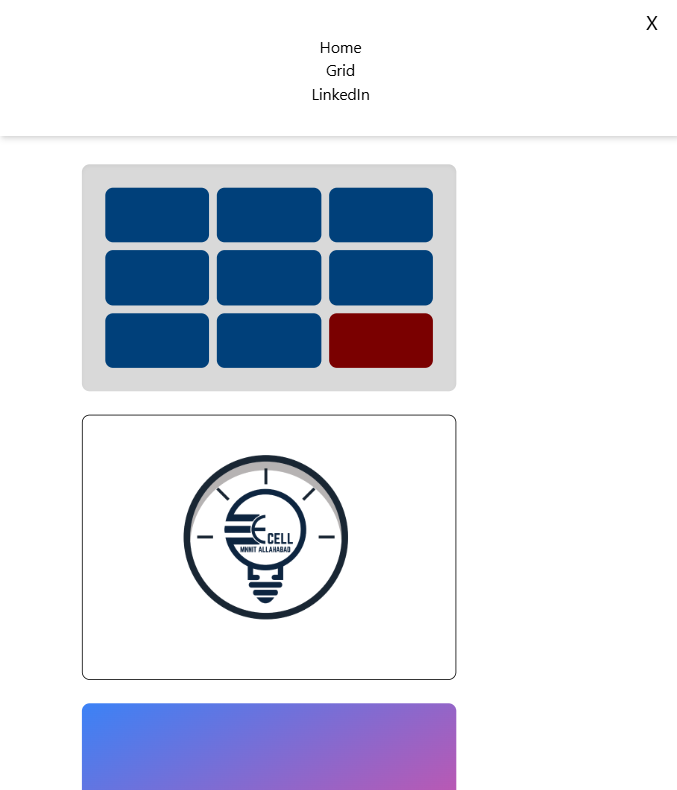
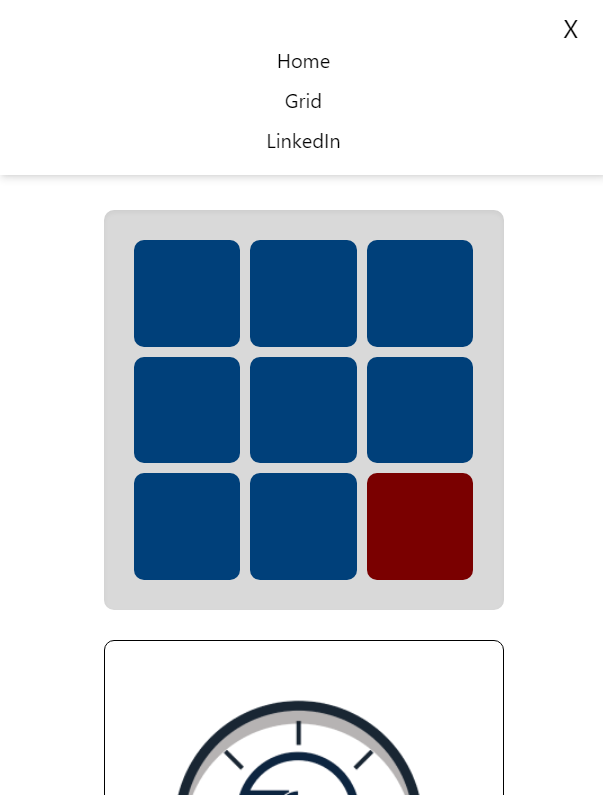
make responsive for tablet

diff --git a/frontend/src/pages/Home.jsx b/frontend/src/pages/Home.jsx
@@ -26,12 +26,12 @@ export default function Home() {
 
   return (
     <div>
-      <div className="flex flex-col lg:flex-row justify-center h-screen gap-6 p-6 pl-20 pr-20 text-xl">
-        <div className="h-[24rem] w-[24rem] bg-gradient-to-br from-blue-500 to-pink-500 rounded-lg order-3 lg:order-1"></div>
-        <div className="h-[24rem] w-[24rem] bg-white rounded-lg flex items-center justify-center border border-black order-2 lg:order-2">
+      <div className="flex flex-col items-center md:grid md:grid-cols-2 md:items-start lg:flex lg:flex-row justify-center h-full gap-6 p-6 pl-20 pr-20 text-xl">
+        <div className="h-80 w-80 bg-gradient-to-br from-blue-500 to-pink-500 order-3 rounded-lg lg:order-1 lg:w-80 lg-h-80 md:w-full md:order-1 md:col-span-2 "></div>
+        <div className="h-80 w-80 bg-white rounded-lg flex items-center justify-center border border-black order-2 lg:order-2 md:col-span-1 lg:w-80 lg:h-80  ">
           <img src={Logo} alt="Logo" className="h-full w-full object-cover" />
         </div>
-        <div className="h-[24rem] w-[24rem] bg-[#D9D9D9] rounded-lg grid grid-cols-3 gap-2 p-6 shadow-inner order-1 lg:order-3">
+        <div className="h-80 w-80 bg-[#D9D9D9] rounded-lg grid grid-cols-3 gap-2 p-6 shadow-inner order-1 lg:order-3 md:order-2 md:col-span-1 lg:w-80 lg:h-80  ">
           {colors.map((color, index) => (
             <div
               key={index}

diff --git a/frontend/src/components/Navbar.jsx b/frontend/src/components/Navbar.jsx
@@ -53,7 +53,7 @@ function Navbar() {
           navbarOpen ? "block" : "hidden"
         } w-full mt-0 md:mt-0 md:flex md:items-center md:justify-between md:ml-auto md:w-auto`}
       >
-        <div className="flex flex-col mt-0 md:flex-row md:gap-4">
+        <div className="flex flex-col gap-2 mt-0 md:flex-row md:gap-4">
           <button
             className="block mt-0 md:mt-0 hover:text-gray-500 transition duration-200"
             onClick={handleHomeClick}

diff --git a/readme.md b/readme.md
@@ -21,6 +21,12 @@ _Interactive grid puzzle and E-Cell logo display_
 ![Profile Grid](frontend/public/grid.png)
 _Personal profile with Instagram integration_
 
+### Tablet Responsive Design
+
+![Tab View](frontend/public/tablet.png)
+
+_Mobile-friendly navigation and layout_
+
 ### Mobile Responsive Design
 
 ![Mobile View](frontend/public/mobile.png)
